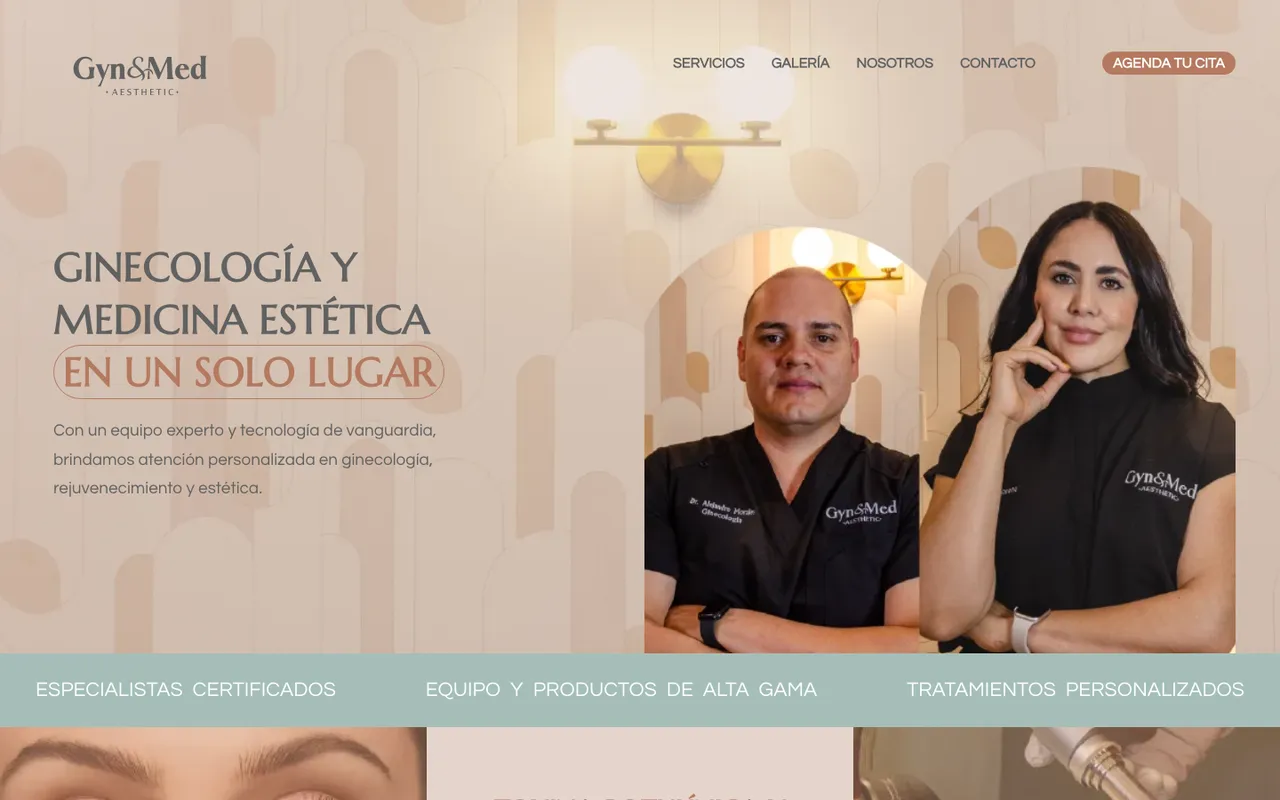
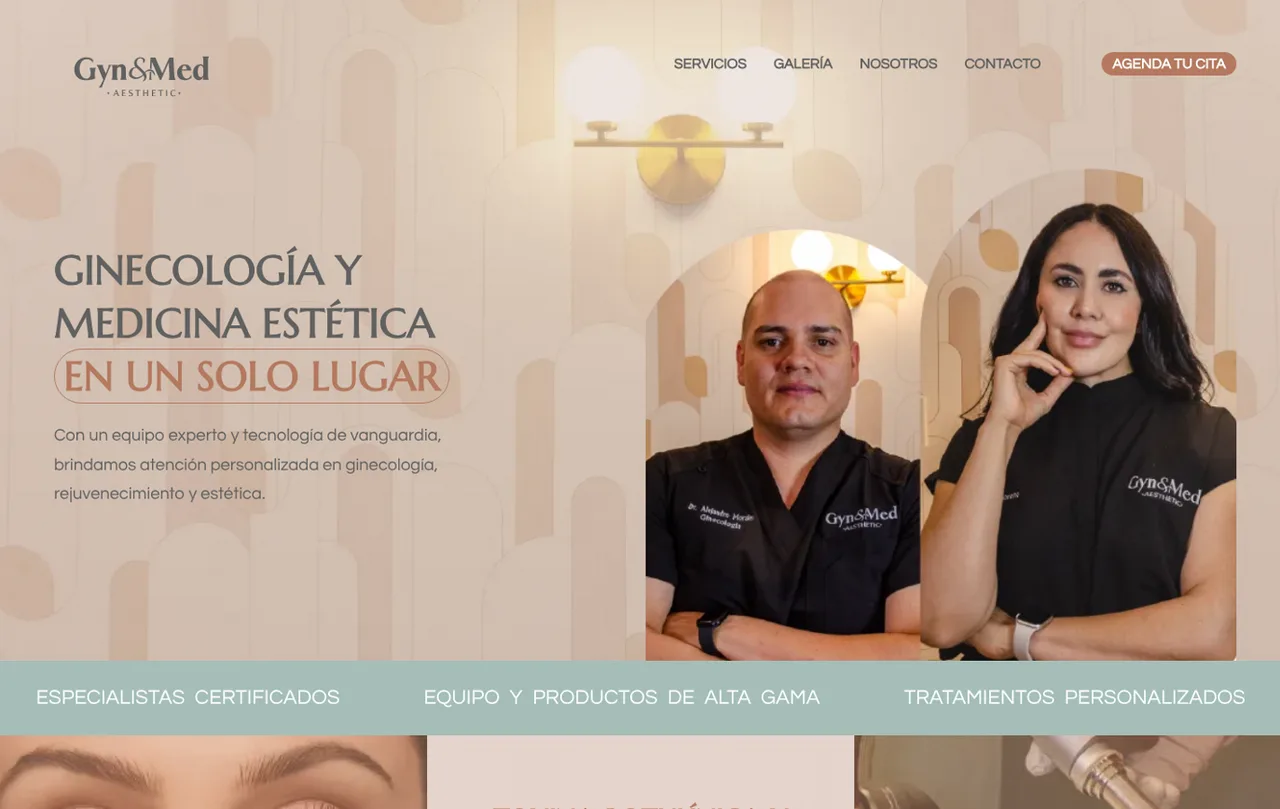
blanco

diff --git a/src/scripts/palette.ts b/src/scripts/palette.ts
@@ -23,7 +23,13 @@ function apply(id: PaletteId) {
   });
 }
 
+function markSeen() {
+  document.documentElement.dataset.paletteSeen = '';
+  try { localStorage.setItem('vs-palette-seen', '1'); } catch {}
+}
+
 function choose(id: PaletteId, origin: { x: number; y: number }) {
+  markSeen();
   if (id === document.documentElement.dataset.palette) return;
   try { localStorage.setItem(KEY, id); } catch {}
 
@@ -59,7 +65,13 @@ document.addEventListener('click', (e) => {
 
 document.addEventListener('astro:page-load', init);
 // Al navegar, el nuevo documento llega sin el atributo: lo reponemos antes de pintar.
+// Abrir el selector también cuenta como "ya lo vio": se apaga el pulso.
+document.addEventListener('click', (e) => {
+  if ((e.target as Element).closest('[data-palette-trigger]')) markSeen();
+});
+
 document.addEventListener('astro:after-swap', () => {
   document.documentElement.dataset.palette = currentPalette();
+  try { if (localStorage.getItem('vs-palette-seen')) document.documentElement.dataset.paletteSeen = ''; } catch {}
   document.documentElement.classList.add('js');
 });

diff --git a/src/i18n/ui.ts b/src/i18n/ui.ts
@@ -1,3 +1,6 @@
+/** El blog está apagado mientras no haya entradas. Cámbialo a true para volver a mostrarlo. */
+export const BLOG_ENABLED = false;
+
 export const languages = { es: 'Español', en: 'English' } as const;
 export type Lang = keyof typeof languages;
 export const defaultLang: Lang = 'es';
